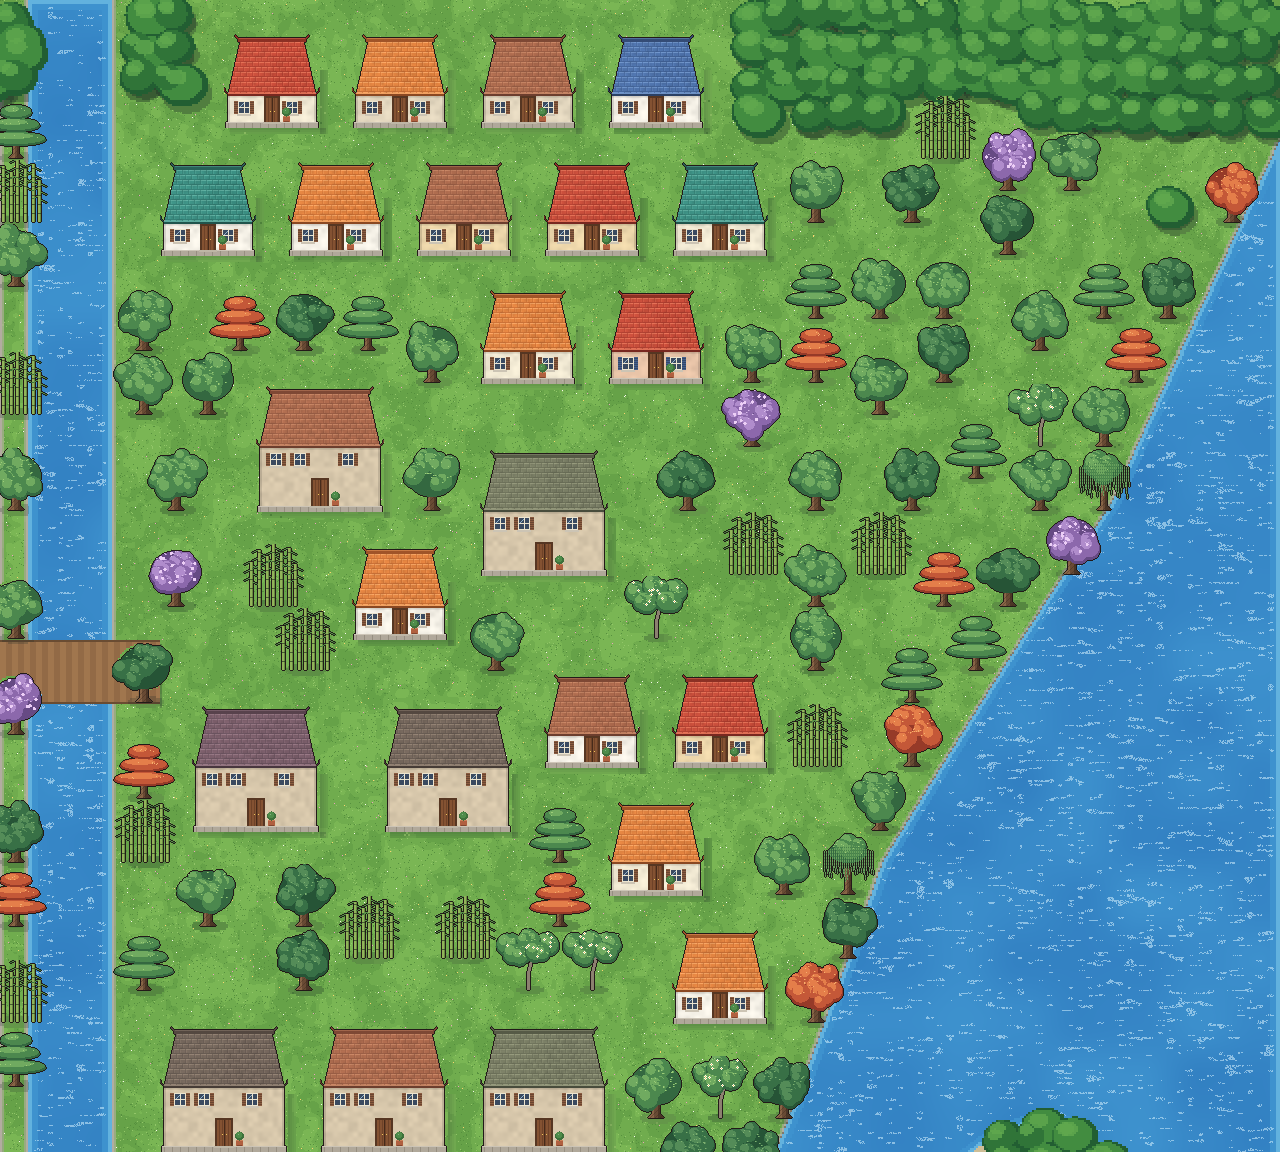
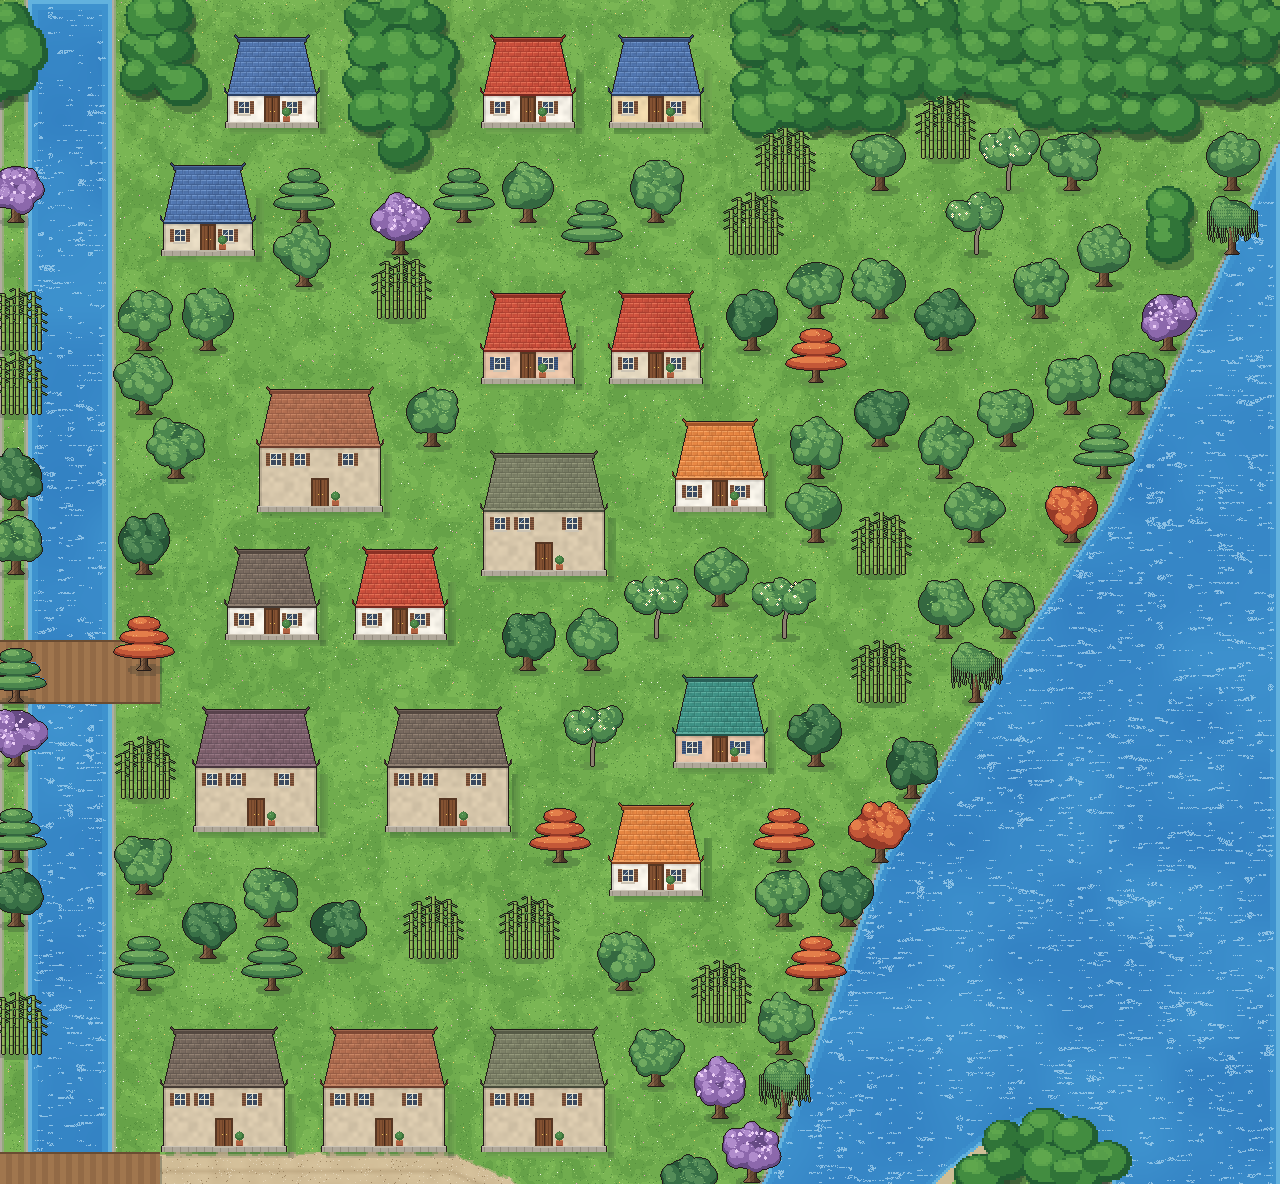
feat: a wider Hương — twice the width through the city
The river along the Citadel is now 8 tiles across instead of about 4, with
the riverside parks still on both banks. To make room, everything south of
it moves down 4 rows and the map grows to 120×111: the south park, the
fountain and the boardwalk, Lê Lợi and its traffic, Ga Huế and its tracks,
Quốc Học, the walking street, Cung An Định, Vỹ Dạ, the An Cựu canal and its
crossings, Ngự Bình, the tomb hills and their road, and the spawn. Dã Viên
islet grows with the river; the dragon-boat pier reaches further out; the
boats and lanterns spread across the wider water (all 60 lantern spots
still fit). The high-detail patches are now 40 × 37 tiles.

diff --git a/src/game/scenes/WorldScene.ts b/src/game/scenes/WorldScene.ts
@@ -1090,8 +1090,8 @@ export class WorldScene extends Phaser.Scene {
       // [road row, ride, carries a passenger, speed px/s]
       [49.6, 'bike', false, 70],
       [49.6, 'cyclo', false, 45],
-      [59.6, 'cyclo', true, 40],
-      [59.6, 'bike', false, 85],
+      [63.6, 'cyclo', true, 40],
+      [63.6, 'bike', false, 85],
     ];
     lanes.forEach(([row, ride, passenger, speed], i) => {
       const k = SCALE * RIDE_SCALE[ride];
